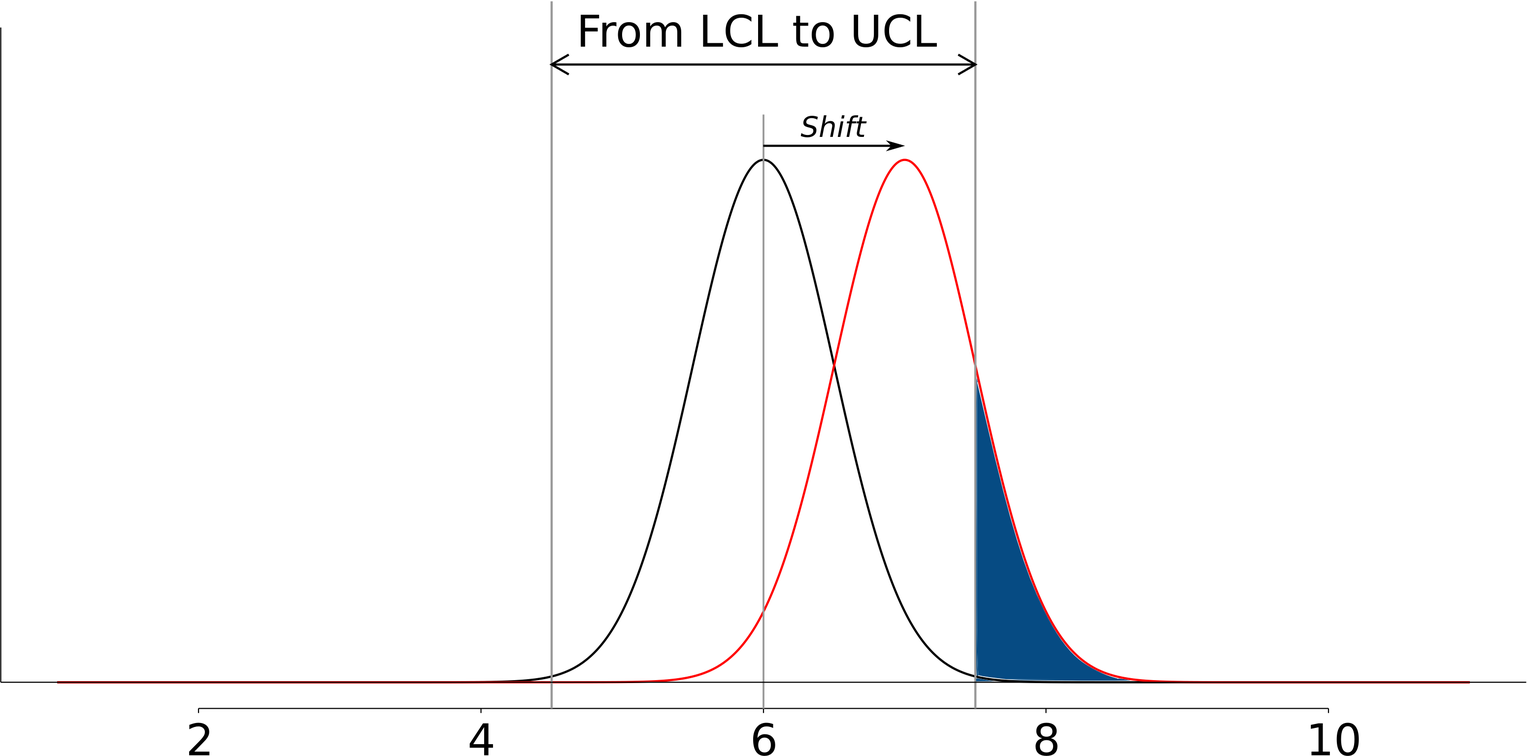
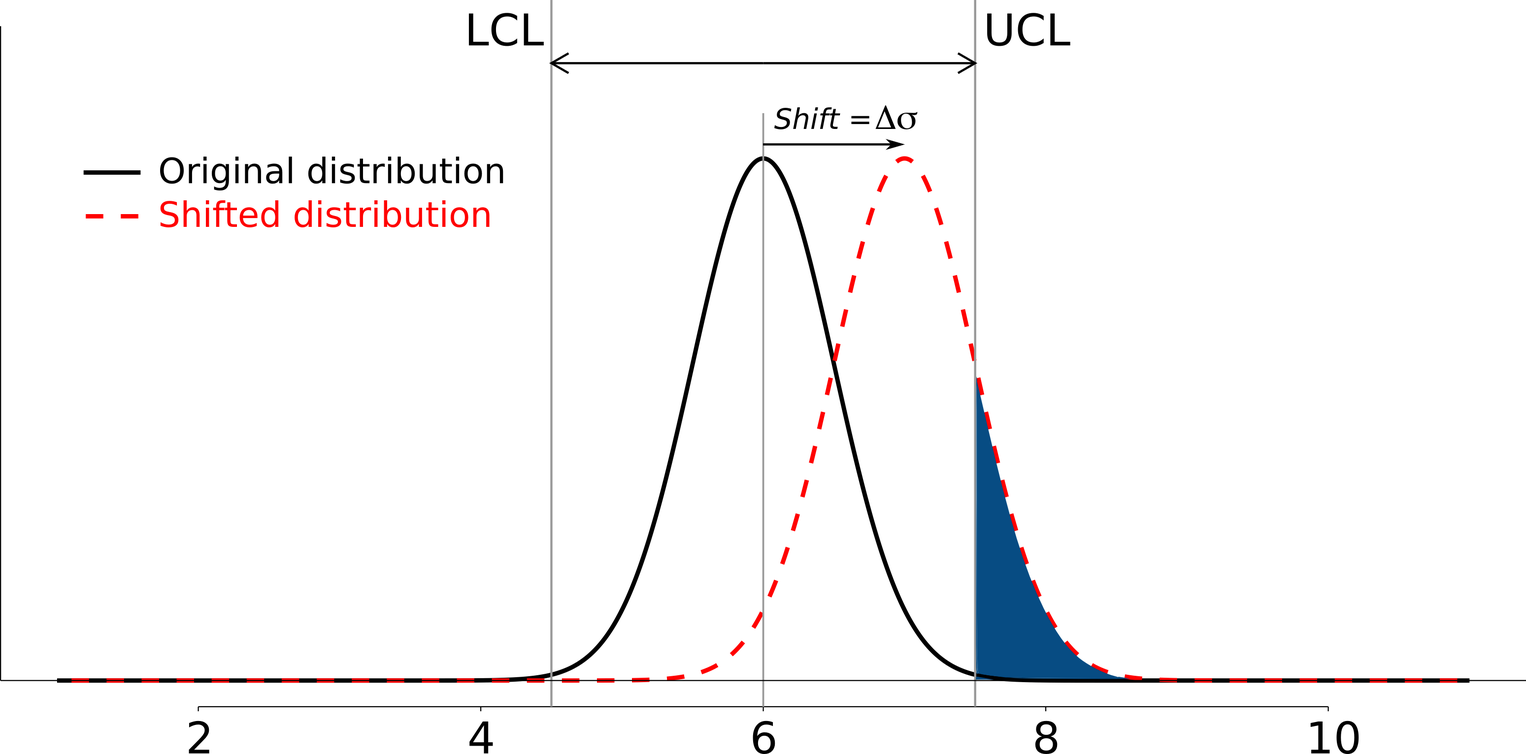
Updates to process monitoring section

diff --git a/conf.py b/conf.py
@@ -24,8 +24,8 @@ needs_sphinx = '1.0'  # If your documentation needs a minimal Sphinx version, st
 # =============================
 
 # These two are mutually exclusive !
-website_version = True
-instructor_version = False
+website_version = False
+instructor_version = True
 
 
 # Sphinx extensions

diff --git a/process-monitoring/process-monitoring.rst b/process-monitoring/process-monitoring.rst
@@ -172,7 +172,7 @@ Shewhart chart
 
 A :index:`Shewhart chart <pair: Shewhart chart; Process monitoring>`, named after Walter Shewhart from Bell Telephone and Western Electric, is to monitor that a process variable remains on target and within given upper and lower limits. It is a monitoring chart for *location*.  It answers the question whether the variable's :index:`location <single: location (process monitoring)>` is stable over time.
 
-The defining characteristics are: a target, upper and lower control limits (UCL and LCL).  These action limits are defined so that no action is required as long as the variable plotted remains within the limits.
+The defining characteristics are: a target, upper and lower control limits (:index:`UCL <single: upper control limit>` and :index:`LCL <single: lower control limit`).  These action limits are defined so that no action is required as long as the variable plotted remains within the limits.
 
 Derivation using theoretical parameters
 ~~~~~~~~~~~~~~~~~~~~~~~~~~~~~~~~~~~~~~~~~
@@ -218,7 +218,7 @@ The derivation in equation :eq:`shewhart-theoretical` requires knowing the popul
 
 .. index:: ! Phase 1 (control charts)
 
-Let's take a look at phase, the step where we are building the control chart's limits from historical data.  Create a new variable |xdb| :math:`= \dfrac{1}{K} \displaystyle \sum_{k=1}^{K}{ \overline{x}_k}`, where :math:`K` is the number of :math:`\overline{x}` samples we have available to build the control chart, called the :index:`phase 1` data.  Alternatively, just set |xdb| to the desired target value for :math:`x`.  Note that |xdb| is sometimes called the  *grand mean* in control chart textbooks.
+Let's take a look at phase, the step where we are building the control chart's limits from historical data.  Create a new variable |xdb| :math:`= \dfrac{1}{K} \displaystyle \sum_{k=1}^{K}{ \overline{x}_k}`, where :math:`K` is the number of :math:`\overline{x}` samples we have available to build the control chart, called the :index:`phase 1 <single: Phase 1 (control charts)>` data.  Alternatively, just set |xdb| to the desired target value for :math:`x`.  Note that |xdb| is sometimes called the  *grand mean* in control chart textbooks.
 
 The next hurdle is :math:`\sigma`.  We do not show it here, but for a subgroup of :math:`n` samples, an unbiased estimator of :math:`\sigma` is given by :math:`\frac{\overline{S}}{a_n}`.  Now :math:`\overline{S} =  \frac{1}{K} \displaystyle \sum_{k=1}^{K}{s_k}` (simply the average standard deviation calculated from :math:`K` subgroups).  Values for :math:`a_n` are found from a table and depend on the number of samples we use within each subgroup.
 
@@ -303,7 +303,7 @@ You make a **type II error** when your sample really is abnormal, but falls with
 
 *Synonyms* for a **type II error**: false negative (used mainly for testing of diseases), consumer's risk (used for acceptance sampling)
 
-To quantify the probability :math:`\beta`, make an assumption that the new, abnormal sample comes from a distribution which has shifted its location from :math:`\mu` to :math:`\mu + \Delta\sigma` (e.g. :math:`\Delta` can be positive or negative).  Now, what is the probability this new sample, which come from the shifted distribution, will fall within the existing LCL and UCL? This figure show the probability is :math:`\beta = 1 - \text{the shaded area}`.
+To quantify the probability :math:`\beta`, recall that a Shewhart chart is for monitoring location, so we make an assumption that the new, abnormal sample comes from a distribution which has shifted its location from :math:`\mu` to :math:`\mu + \Delta\sigma` (e.g. :math:`\Delta` can be positive or negative).  Now, what is the probability this new sample, which come from the shifted distribution, will fall within the existing LCL and UCL? This figure show the probability is :math:`\beta = 1 - \text{the shaded area}`.
 
 .. figure:: images/show-shift-beta-error.png
 	:width: 500px
@@ -312,47 +312,53 @@ To quantify the probability :math:`\beta`, make an assumption that the new, abno
 
 .. todo  How did Devore calculate these numbers: see p 667 of his book - it doesn't make sense to me.  See my attempt in "show-shift-typeII-error.R"
 
-.. figure:: images/type-II-error-shift.png
-	:width: 500px
-	:align: center
-	:scale: 90
+
+==============================  ====== ====== ====== ====== ====== ====== 
+:math:`\Delta`                  0.25   0.50   0.75   1.00   1.50   2.00   
+------------------------------  ------ ------ ------ ------ ------ ------ 
+:math:`\beta` when :math:`n=4`  0.9936 0.9772 0.9332 0.8413 0.5000 0.1587
+==============================  ====== ====== ====== ====== ====== ====== 
+
+..	
+	.. figure:: images/type-II-error-shift.png
+		:width: 500px
+		:align: center
+		:scale: 90
 
 The table here shows that :math:`\beta` is a function of the amount by which the process shifts = :math:`\Delta`, where :math:`\Delta=1` implies the process has shifted up by :math:`1\sigma`.  The table was calculated for :math:`n=4` and used critical limits of :math:`\pm 3 \sigma_{\overline{X}}`.
 
-The key point you should note from the table is that a Shewhart chart is not good at detecting a change in the level of a variable.  Even a moderate shift of :math:`0.75\sigma` units :math:`(\Delta=0.75)` will only be detected around 6.7% of the time (100-93.3%) when :math:`n=4`.  We will discuss CUSUM charts as a way to overcome this issue next.
+The key point you should note from the table is that a Shewhart chart is *not good* (it is slow) at detecting a change in the location (level) of a variable.  This is surprising given the intention of the plot is to monitor the variable's location.  Even a moderate shift of :math:`0.75\sigma` units :math:`(\Delta=0.75)` will only be detected around 6.7% of the time (100-93.3%) when :math:`n=4`.  We will discuss :ref:`CUSUM charts <monitoring-CUSUM-charts>` and the Western Electric rules, next, as a way to overcome this issue.
 
-It is straightforward to see how the type I (:math:`\alpha`) error rate can be adjusted - simply move the LCL and UCL up and down, as required.  
+It is straightforward to see how the type I, :math:`\alpha`, error rate can be adjusted - simply move the LCL and UCL up and down, as required, to achieve your desired error rates.  There is nothing wrong in arbitrarily shifting these limits - :ref:`more on this later <monitoring-adjust-limits>`.
 
 However what happens to the type II error rate as the LCL and UCL bounds are shifted?  Imagine the case where you want to have :math:`\alpha \rightarrow 0`.  As you make the UCL higher and higher, the value for :math:`\alpha` drops, but the value for :math:`\beta` will also increase!  **You cannot simultaneously have low type I and type II error**.
 
 .. rubric:: 2. Using the average run length (ARL)
 
-The ARL is defined as the average number of sequential samples we expect before seeing an out-of-bounds, or out-of-control signal.  This is given by the inverse of :math:`\alpha`, as ARL = :math:`\frac{1}{\alpha}`.  Recall for the theoretical distribution we had :math:`\alpha = 0.0027`, so the ARL = 370.  Thus we expect a run of 370 samples before we get an out-of-control signal.
+The :index:`average run length` (ARL) is defined as the average number of sequential samples we expect before seeing an out-of-bounds, or out-of-control signal.  This is given by the inverse of :math:`\alpha`, as ARL = :math:`\frac{1}{\alpha}`.  Recall for the theoretical distribution we had :math:`\alpha = 0.0027`, so the ARL = 370.  Thus we expect a run of 370 samples before we get an out-of-control signal.
 
-The run length is changed when the process level shifts.  What is the ARL if the process has shifted up by :math:`0.75\sigma`?
-	
-	*Answer*
-	
-		ARL = 1/(1-0.9332) = 15 samples
+The run length changes if the process level shifts up or down.  What is the ARL if the process has shifted up by :math:`0.75\sigma`, if subgroup size is :math:`n=4`?  The ARL = 1/(1-0.9332) = 15 samples, indicating it will take, on average, 15 samples on the Shewhart chart to detect a process shift of :math:`0.75\sigma`.
 
 Extensions to the basic Shewhart chart
 ~~~~~~~~~~~~~~~~~~~~~~~~~~~~~~~~~~~~~~~~~~~~~~~~~~~~
 
-*	What are the **Western Electric rules**?  We saw above how the ARL is only decreased by a small amount if a true shift in the process mean occurs, from :math:`\mu` to :math:`\mu + \Delta\sigma`. The Western Electric (then known as AT&T) rules are an attempt to more rapidly detect a process shift, by raising an alarm when these *improbable* events occur:
+*	The :index:`Western Electric rules`:  we saw above how the ARL is only decreased by a small amount if a true shift in the process mean occurs, from :math:`\mu` to :math:`\mu + \Delta\sigma`. The Western Electric (then known as AT&T) rules are an attempt to more rapidly detect a process shift, by raising an alarm when these *improbable* events occur:
 
 	#. 2 out of 3 points lie beyond :math:`2\sigma` on the same side of the centre line
 	#. 4 out of 5 points lie beyond :math:`1\sigma` on the same side of the centre line
 	#. 8 successive points lie on the same side of the center line
 	
-	However, an alternative chart, the CUSUM chart is more effective at detecting a shift in the mean.  Notice also that the theoretical ARL (:math:`1/\alpha`) is reduced by using these rules in addition to the LCL and UCL.
+	However, an alternative chart, the CUSUM chart is more effective at detecting a shift in the mean.  Notice also that the theoretical ARL, :math:`1/\alpha`, is reduced by using these rules in addition to the LCL and UCL.
 
 *	**Adding robustness**: the phase I derivation of a control chart is iterative.  If you find a point that violates the LCL and UCL limits, then the approach is to remove that point, and recompute the LCL and UCL values.  That is because the LCL and UCL limits would have been biased up or down by these points.
 
-	This iterative approach can be tiresome with data that has spikes, missing values, outliers, and other problems typical of data pulled from a process historian (database). Robust control charts are procedures to calculate the limits so the LCL and UCL are resistant to the effect of outliers. For example, a robust procedure might use the medians and MAD instead of the mean and standard deviation.  An examination of various robust procedures, especially that of the interquartile range, is given by the paper in the reading list by Rocke, *Robust Control Charts*.
+	This iterative approach can be tiresome with data that has spikes, missing values, outliers, and other problems typical of data pulled from a process database (:index:`historian <single: data historian>`. Robust control charts are procedures to calculate the limits so the LCL and UCL are resistant to the effect of outliers. For example, a robust procedure might use the medians and MAD instead of the mean and standard deviation.  An examination of various robust procedures, especially that of the interquartile range, is given in the paper by Rocke, *Robust Control Charts*.
 
 	*Note*: do not use robust methods to calculate the values plotted on the charts, only use robust methods to calculate the chart limits!
 	
 *	**Warning limits**: it is common to see warning limits on a control chart at :math:`\pm 2 \sigma`, while the :math:`\pm 3\sigma` limits are called the action limits.  Real-time computer systems usually use a colour scheme to distinguish between the warning state and the action state.  For example, the chart background changes between green, orange or red depending on the state of the current observation plotted.
+
+.. _monitoring-adjust-limits:
 
 *	**Adjusting the limits**: The :math:`\pm 3\sigma` limits are not set in stone.  Depending on the degree to which the source data obey the assumptions, and the frequency with which spikes and outliers contaminate your data, you may need to adjust your limits, usually wider, to avoid frequent false alarms.  Nothing makes a control chart more useless to operators than frequent false alarms ("`crying wolf <http://en.wikipedia.org/wiki/The_Boy_Who_Cried_Wolf>`_").
 
@@ -367,8 +373,9 @@ Imagine you are monitoring an aspect of the final product's quality, e.g. viscos
 
 Shewhart chart limits were calculated with the assumption of **independent subgroups** (e.g. subgroup :math:`i` has no effect on subgroup :math:`i+1`).  For a process with mild autocorrelation, the act of creating subgroups, with :math:`n` samples in each group, removes most, if not all, of the relationship between subgroups.  However processes with heavy autocorrelation (slow moving processes sampled at a high rate, for example), will have LCL and UCL calculated from equation :eq:`shewhart-limits` that will raise false alarms too frequently.  In these cases you can widen the limits, or remove the autocorrelation from the signal.  More on this in the section on exponentially weighted moving average (EWMA) charts.
 
-Using Shewhart charts on **highly correlated quality variables**, usually on your final product measurement, can increase your type II (consumer's risk) dramatically.  We will come back to this very important topic in the section on :ref:`latent variable models <SECTION-latent-variable-modelling>`.
+Using Shewhart charts on two or more **highly correlated quality variables**, usually on your final product measurement, can increase your type II (consumer's risk) dramatically.  We will come back to this very important topic in the section on :ref:`latent variable models <SECTION-latent-variable-modelling>`.
 
+.. _monitoring-CUSUM-charts:
 
 CUSUM charts
 ==============
@@ -387,19 +394,20 @@ The Shewhart chart is not too sensitive to detecting shifts in the mean.  Depend
 	\\
 	\text{In general}\qquad S_t &= S_{t-1} + (x_t - T) 
 	
+.. figure:: images/explain-CUSUM.png
+	:alt:	images/explain-CUSUM.R
+	:width: 750px
+	:align: center
+	
 Values of :math:`S_t` for an in-control process are really just random errors, with mean of zero.  The long-term sum of :math:`S_t` is also zero, as the positive and negative errors keep cancelling out.
 
 So imagine a CUSUM chart where at some time point the process mean shifts up by :math:`\Delta` units, causing future values of :math:`x_t` to be :math:`x_t + \Delta` instead.  Now the summation in the last equation of :eq:`CUSUM-derivation` has an extra :math:`\Delta` term added at each step to :math:`S_t`.  Every point will build up an accumulation of :math:`\Delta`, which shows up as a positive or negative slope in the CUSUM chart. 
 
-.. figure:: images/explain-CUSUM.png
-	:width: 750px
-	:align: center
-
-The CUSUM chart is extremely sensitive to small changes.  The chart is drawn for a process where the mean is :math:`\mu=20`, and :math:`\sigma=3`.  A small shift of 0.4*3 = 1.2 units (i.e from 20 to 21.2) occurs at :math:`t=150`.  This shift is imperceptible (see the 3rd row in the figure).  The CUSUM chart rapidly picks up the shift by showing a consistent slope.
+The CUSUM chart is extremely sensitive to small changes.  The example chart is shown here for a process where the mean is :math:`\mu=20`, and :math:`\sigma=3`.  A small shift of :math:`0.4 \times 3 = 1.2` units (i.e from 20 to 21.2) occurs at :math:`t=150`.  This shift is almost imperceptible in the raw data (see the 3rd row in the figure).  However, the CUSUM chart rapidly picks up the shift by showing a consistent rising slope.
 
 This figure also shows how the CUSUM chart is used with the 2 masks.  Notice that there are no lower and upper bounds for :math:`S_t`.  A process that is on target will show a "wondering" value of S, moving up and down.  In fact, as the second row shows, a surprising amount of movement up and down occurs even when the process is in control.
 
-What is of interest is a persistent change in slope.  The angle of the superimposed V-mask is the control limit: the narrower the mouth of the mask, the more sensitive the CUSUM chart is to deviations from the target.  Both the type I and II error are set by the angle of the V and the leading distance (the distance from the short vertical line to the apex of the V).
+What is of interest however is a persistent change in slope.  The angle of the superimposed V-mask is the control limit: the narrower the mouth of the mask, the more sensitive the CUSUM chart is to deviations from the target.  Both the type I and II error are set by the angle of the V and the leading distance (the distance from the short vertical line to the apex of the V).
 
 The process is considered in control as long as all points are within the arms of the V shape.   The mask in the second row of the plot shows "in control" behaviour, while the mask in the fourth row detects the process mean has shifted, and an alarm should be raised.
 
@@ -412,10 +420,10 @@ EWMA charts
 ==============
 
 .. index::
-	single: exponentially weighted moving average chart
+	single: exponentially weighted moving average
 	pair: EWMA chart; Process monitoring
 
-The two previous charts highlight the 2 extremes of control chart.  On the one hand, a Shewhart chart assumes each subgroup sample is independent (unrelated) to the next - implying there is no "memory" in the chart.  On the other hand, a CUSUM chart has an infinite memory, back to the time the chart was started at :math:`t=0` (see equation :eq:`CUSUM-derivation`).
+The two previous charts highlight the 2 extremes of control charts.  On the one hand, a Shewhart chart assumes each subgroup sample is independent (unrelated) to the next - implying there is no "memory" in the chart.  On the other hand, a CUSUM chart has an infinite memory, back to the time the chart was started at :math:`t=0` (see equation :eq:`CUSUM-derivation`).
 
 As an introduction to the exponentially weighted moving average (EWMA) chart, consider first a moving average (MA) chart, which is used just like a Shewhart chart, except the samples that make up the subgroup are calculated using a moving window of width :math:`n`.
 
@@ -437,10 +445,14 @@ Define the process target as :math:`T`.
 .. math:: 
 	:label: ewma-derivation-1
 	
-		\begin{array}{lcrclcl}
-			x_t = \text{new data}\qquad\qquad	&& \hat{x}_t     &=& \hat{x}_{t-1} + \lambda e_{t-1}	\qquad\qquad	& \text{where~} e_t = x_t - \hat{x}_t \\
-			\text{Shifting one step:}			&& \hat{x}_{t+1} &=& \hat{x}_{t}   + \lambda e_{t}    \\
+		\begin{array}{lcrcl}
+			\text{Let}  \qquad\qquad && x_t           &=& \text{new data measurement}\\
+			\text{Let}  \qquad\qquad && e_t           &=& x_t - \hat{x}_t \\
+									 && \hat{x}_t     &=& \hat{x}_{t-1} + \lambda e_{t-1}	\qquad\qquad	 \\
+			\text{Shifting one step:}&& \hat{x}_{t+1} &=& \hat{x}_{t}   + \lambda e_{t}    \\
 		\end{array}
+
+The reason for the :math:`^` above the :math:`x_t`, as in :math:`\hat{x}_t`, is that :math:`\hat{x}_t` is a prediction of the measured :math:`x_t` value.  
 		
 To start the EWMA sequence we define the value for :math:`\hat{x}_0 = T`, and :math:`e_0 = 0`, so that :math:`\hat{x}_1 = T`.  An alternative way of writing the above equation is:
 
@@ -453,7 +465,7 @@ To start the EWMA sequence we define the value for :math:`\hat{x}_0 = T`, and :m
 											&& \hat{x}_{t+1} &=& \left(1-\lambda \right)\hat{x}_{t}   + \lambda x_t  \\
 		\end{array}
 
-That last line shows the one-step-ahead prediction for :math:`x` at time :math:`t+1` is a weighted sum of two components: the predicted value and the measured value, weighted to add up to 1.  The plot below shows visually what happens as the weight of :math:`\lambda` is changed.  In this data a step increase in the raw data of 3 units occurs at :math:`t=150`; the process mean is :math:`\mu=20` and the raw data :math:`\sigma = 3`.  The plots show the one-step-ahead prediction value from equation :eq:`ewma-derivation-2`, :math:`\hat{x}_{t+1}` = EWMA value plotted.
+That last line shows the one-step-ahead prediction for :math:`x` at time :math:`t+1` is a weighted sum of two components: the predicted value and the measured value, weighted to add up to 1.  The plot below shows visually what happens as the weight of :math:`\lambda` is changed.  In this example a shift of :math:`\Delta = 1\sigma = 3` units occurs at :math:`t=150`.  Prior to that the process mean is :math:`\mu=20` and the raw data has :math:`\sigma = 3`.  The EWMA plots show the one-step-ahead prediction value from equation :eq:`ewma-derivation-2`, :math:`\hat{x}_{t+1}` = EWMA value plotted.
 
 .. figure:: images/explain-EWMA.png
 	:width: 750px
@@ -466,11 +478,11 @@ As :math:`\lambda` gets smaller, the chart is smoother, because as equation :eq:
 	\hat{x}_{t+1} &= \sum_{i=0}^{i=t}{w_i x_i} = w_0x_0 + w_1x_1 + w_2x_2 + \ldots \\
 	\text{where the weights are:} \qquad w_i &= \lambda (1-\lambda)^{t-i}
 
-which shows that the one-step-ahead prediction is a just a weighted sum of the raw measurements, with weights declining in time.  In the next figure, we show the weights for the 4 control charts studied so far.
+which shows that the one-step-ahead prediction is a just a weighted sum of the raw measurements, with weights declining in time.  In the next figure, we show a comparison of the weights used in 4 different control charts studied so far.
 
 From the above discussion and the weights shown for the 4 different charts, it should be clear now how an EWMA chart is a tradeoff between a  Shewhart chart and a CUSUM chart.  As :math:`\lambda \rightarrow 1`, the EWMA chart behaves more as a Shewhart chart, giving only weight to the most recent observation.  While as :math:`\lambda \rightarrow 0` the EWMA chart starts to have an infinite memory (like a CUSUM chart).
 
-.. figure:: images/explain-weights.png
+.. image:: images/explain-weights.png
 	:width: 750px
 	:align: center
 	:scale: 75
@@ -484,7 +496,7 @@ The upper and lower control limits for the EWMA plot are plotted in the same way
 		 \text{LCL} = \overline{\overline{x}} - 3 \cdot \sigma_{\text{Shewhart}}\sqrt{\frac{\lambda}{2-\lambda}} &&  &&  \text{UCL} = \overline{\overline{x}} + 3 \cdot \sigma_{\text{Shewhart}} \sqrt{\frac{\lambda}{2-\lambda}}
 	\end{array} 
 
-where :math:`\sigma_{\text{Shewhart}}` represents the standard deviation as used on the Shewhart chart.  Actually one neat implementation is to show both the Shewhart and EWMA plot on the same chart, with both sets of limits.  The EWMA value plotted is actually the one-step ahead prediction of the next :math:`x`-value, which can be informative for slow-moving processes.
+where :math:`\sigma_{\text{Shewhart}}` represents the standard deviation as calculated for the Shewhart chart.  Actually one neat implementation is to show both the Shewhart and EWMA plot on the same chart, with both sets of limits.  The EWMA value plotted is actually the one-step ahead prediction of the next :math:`x`-value, which can be informative for slow-moving processes.
 
 The R code here shows one way of calculating the EWMA values for a vector of data.  Once you have pasted this function into R, use it as ``ewma(x, lambda=..., target=...)``.
 
@@ -512,13 +524,13 @@ Other charts
 
 You may encounter other charts in practice:
 
-	*	The *S chart* is for monitoring the subgroup standard deviation.  Take the group of :math:`n` samples and show their standard deviation on a Shewhart-type chart.  The limits for the chart are calculated using similar correction factors as were used in the derivation for the standard :math:`\overline{x}` Shewhart chart.  This chart has a LCL :math:`\geq 0`.
+	*	The *S chart* is for monitoring the subgroup's standard deviation.  Take the group of :math:`n` samples and show their standard deviation on a Shewhart-type chart.  The limits for the chart are calculated using similar correction factors as were used in the derivation for the standard :math:`\overline{x}` Shewhart chart.  This chart has a LCL :math:`\geq 0`.
 	
 	*	The *R chart* was a precursor for the *S chart*, where the *R* stands for range, the subgroup's maximum minus minimum.  It was used when charting was done manually, as standard deviations were tedious to calculate by hand.
 	
 	*	The *np chart* and *p chart* are used when monitoring the proportion of defective items using a pass/fail criterion.  In the former case the sample size taken is constant, while in the latter the proportion of defective items is monitored.  These charts are derived using the binomial distribution.
 
-	*	The *exponentially weight moving variance* (EWMV) chart is an excellent chart for monitoring for an increase in product variability. Like the :math:`\lambda` from an EWMA chart, the EWMV also has a sliding parameter that can balance current information and historical information to trade-off sensitivity.  More information is available in the paper by MacGregor, J.F. and Harris, T.J., "The Exponentially Weighted Moving Variance", *Journal of Quality Technology*, **25**, p 106-118, 1993.
+	*	The *exponentially weight moving variance* (EWMV) chart is an excellent chart for monitoring for an increase in product variability. Like the :math:`\lambda` from an EWMA chart, the EWMV also has a sliding parameter that can balance current information and historical information to trade-off sensitivity.  More information is available in the paper by J.F. MacGregor, and T.J. Harris, "The Exponentially Weighted Moving Variance", *Journal of Quality Technology*, **25**, p 106-118, 1993.
 
 	
 Process capability
@@ -534,14 +546,14 @@ Centered processes
 ~~~~~~~~~~~~~~~~~~~~
 
 
-Purchasers of your product will require a process capability ratio (PCR) for each of the quality attributes of your product.  For example, your plastic product is characterized by its Mooney viscosity and melting point.  A PCR value can be calculated for both properties, using the definition below:
+Purchasers of your product will require a :index:`process capability ratio` (PCR) for each of the quality attributes of your product.  For example, your plastic product is characterized by its Mooney viscosity and melting point.  A PCR value can be calculated for both properties, using the definition below:
 
 .. math::
 	:label: process-capability-ratio-centered
 	
-	\text{PCR} &= \frac{\text{Upper specification limit} - \text{Lower specification limit}}{6\sigma}
+	\text{PCR} &= \frac{\text{Upper specification limit} - \text{Lower specification limit}}{6\sigma} &= \frac{\text{USL} - \text{LSL}}{6\sigma}
 	
-Since the population standard deviation, :math:`\sigma`, is not known, an estimate of it is used.  Note that the lower specification limit (LSL) and upper specification limit (USL) are **not the same** as the lower control limit (LCL) and upper control limit (UCL) as where calculated for the Shewhart chart.  The LSL and USL are the tolerance limits required by your customers, or from your internal specifications.  
+Since the population standard deviation, :math:`\sigma`, is not known, an estimate of it is used.  Note that the :index:`lower specification limit` (LSL) and :index:`upper specification limit` (USL) are **not the same** as the lower control limit (LCL) and upper control limit (UCL) as where calculated for the Shewhart chart.  The LSL and USL are the tolerance limits required by your customers, or from your internal specifications.  
 
 Interpretation of the PCR:
 	
